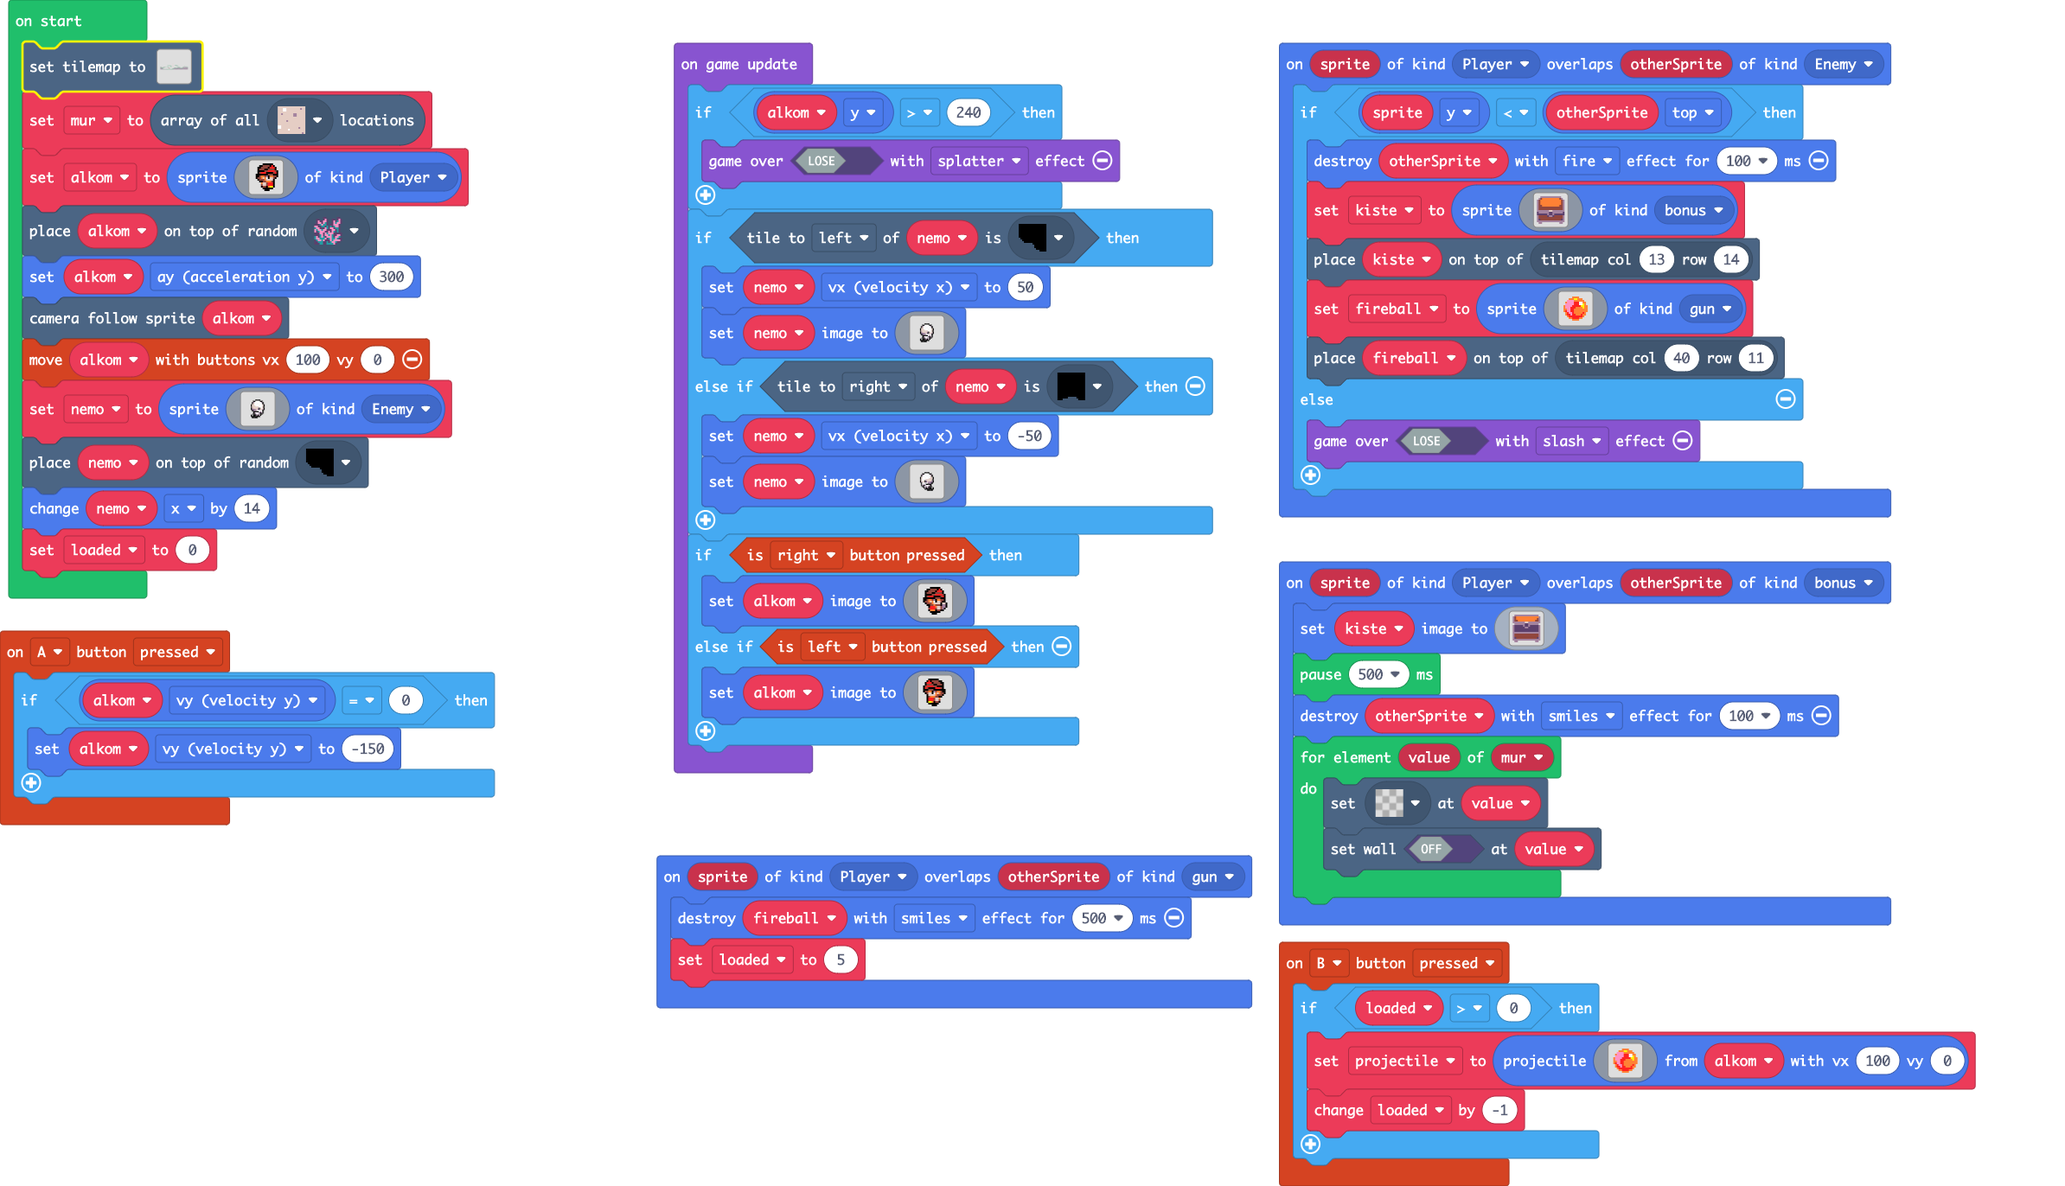
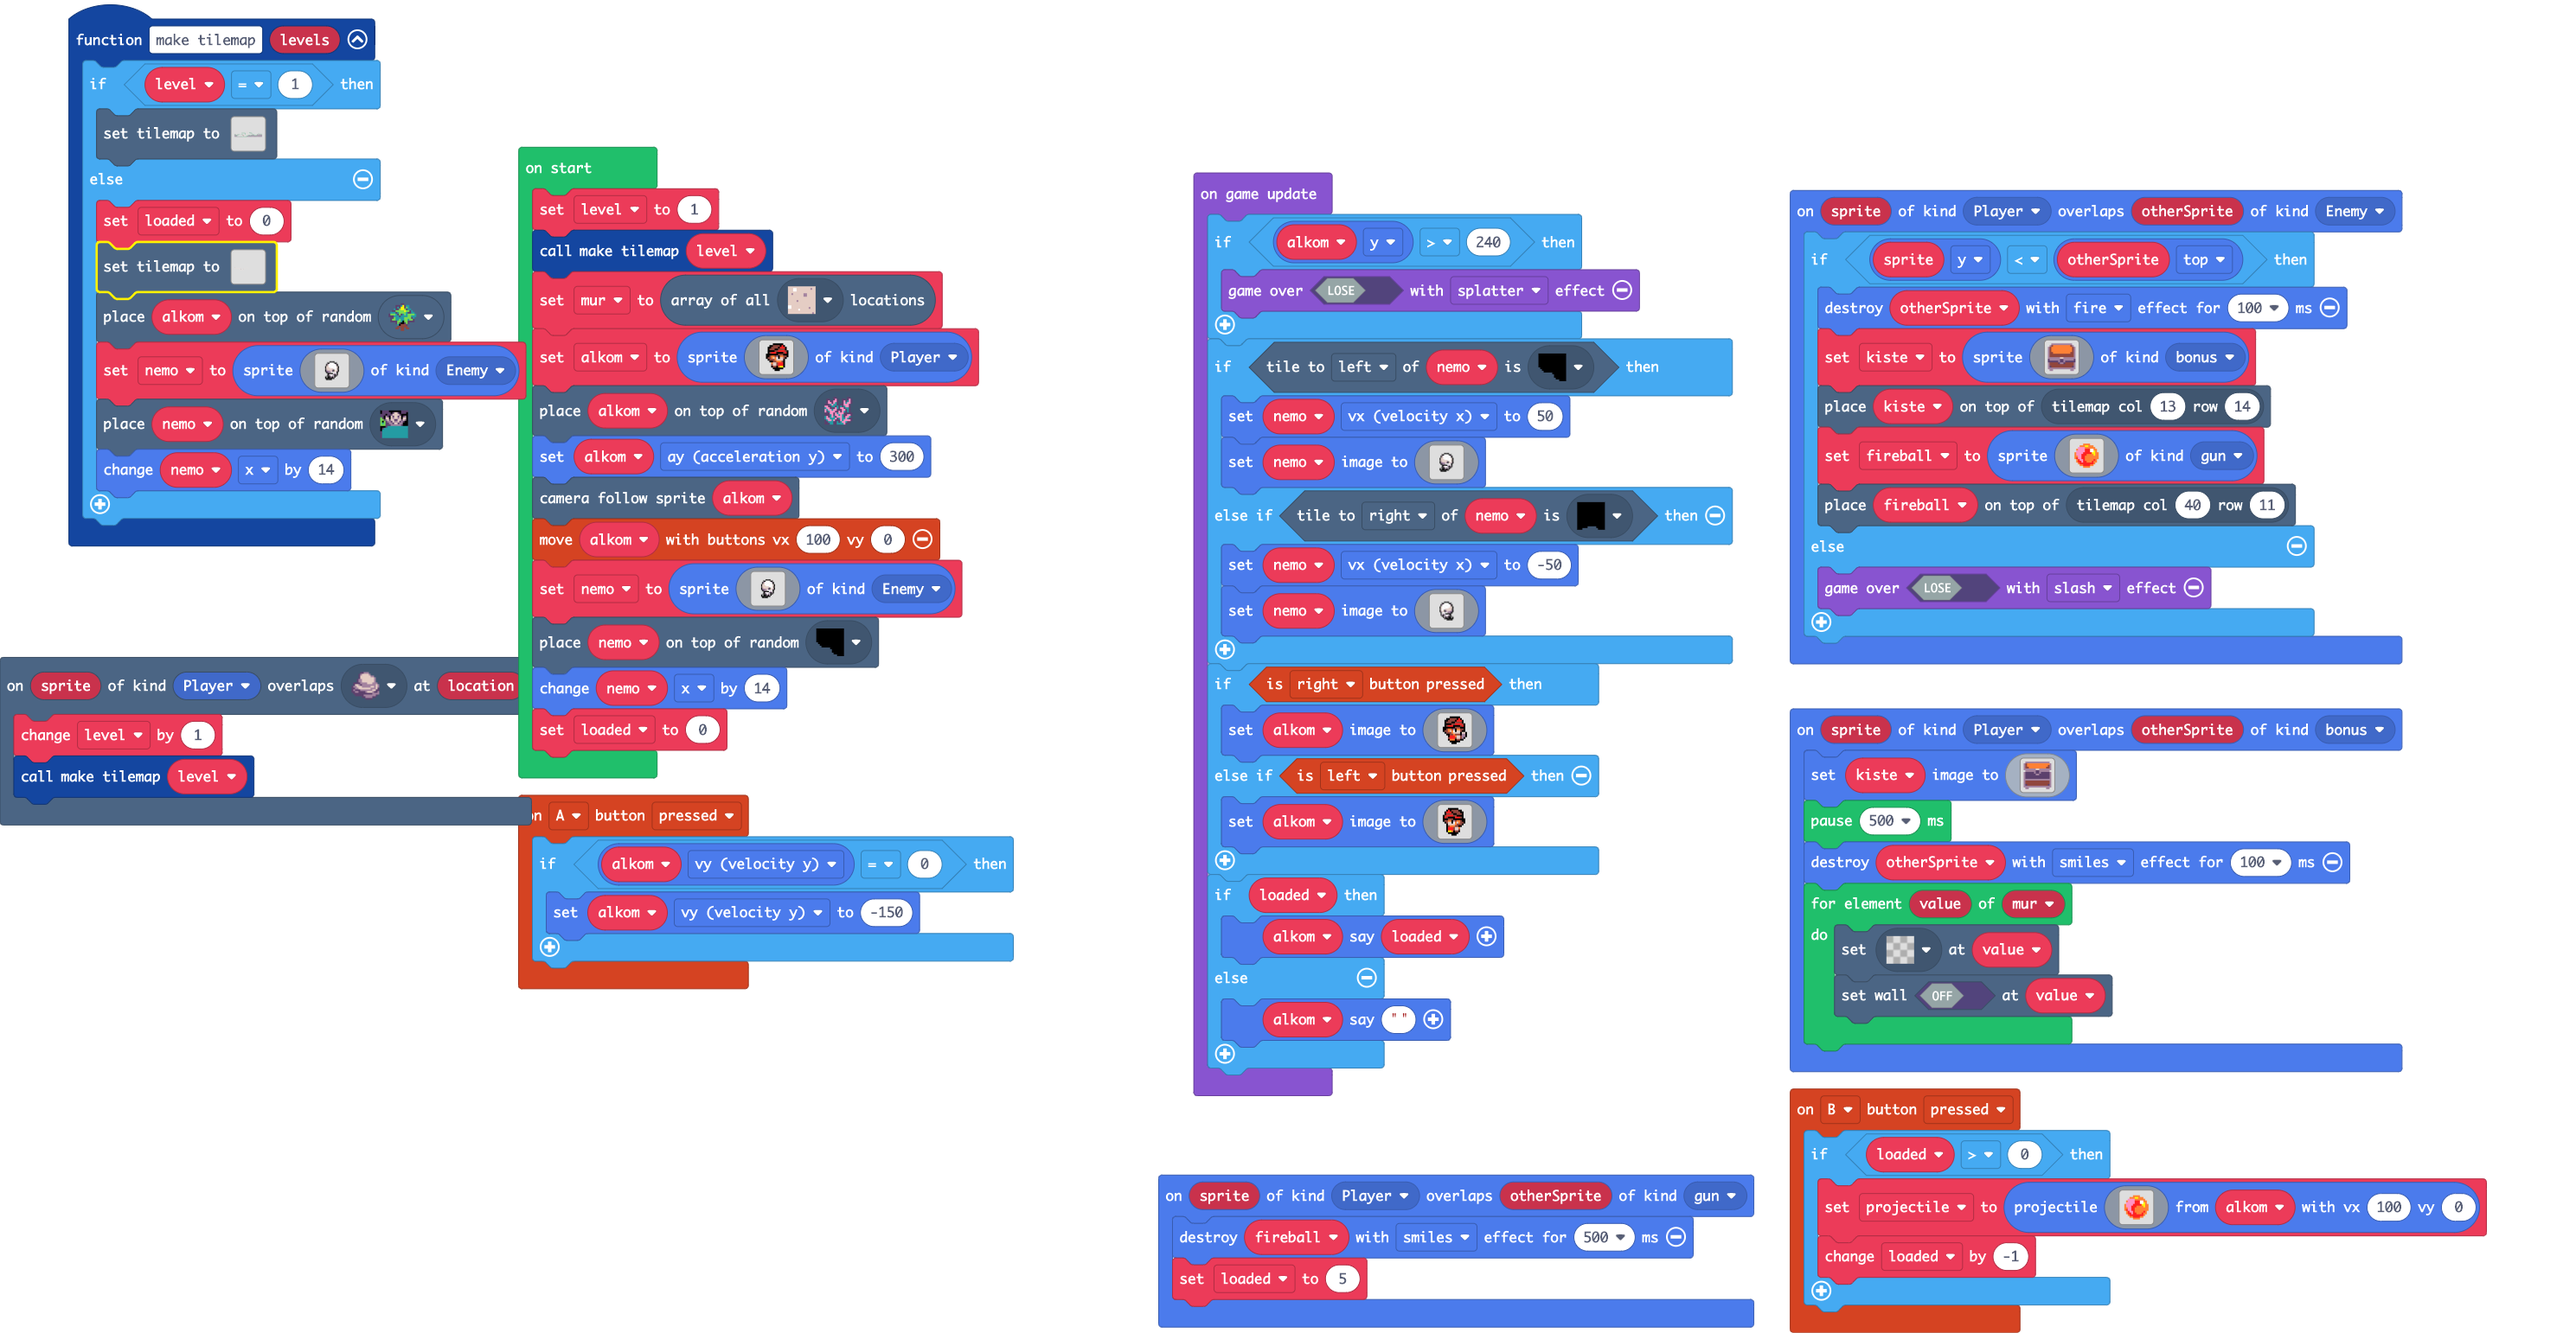
Update main.blocks, main.ts

diff --git a/main.ts b/main.ts
@@ -29,6 +29,77 @@ sprites.onOverlap(SpriteKind.Player, SpriteKind.gun, function (sprite, otherSpri
     fireball.destroy(effects.smiles, 500)
     loaded = 5
 })
+function make_tilemap (levels: number) {
+    if (level == 1) {
[1 lines of base64/hex data omitted]
+            ................................2.....................................
+            ................................2.....................................
+            ................................2.....................................
+            ................................2.....................................
+            ................................2.....................................
+            ................................2....222..............................
+            ..................222222222.....2......22222..........................
+            ..........................22....2..........22.................2.......
+            ...........................2....2...........................2.....2...
+            ...........................2....2.........................2.....2.....
+            22.......22222...2222......2....2...........222222.......2.........222
+            .222222222...........2..........2...222...222..2.2......2.............
+            .....................22.........2.222..2222......222222222............
+            ......................22........222...................................
+            ..............................222.....................................
+            ............222..22222222222222.......................................
+            `, [myTiles.transparency16,sprites.builtin.forestTiles0,sprites.builtin.oceanDepths8,sprites.builtin.oceanDepths9,sprites.castle.tilePath5,myTiles.tile2,sprites.castle.rock0,sprites.builtin.oceanDepths4,sprites.builtin.oceanDepths0,sprites.builtin.coral5,sprites.builtin.oceanDepths3], TileScale.Sixteen))
+    } else {
+        loaded = 0
+        tiles.setTilemap(tiles.createTilemap(hex`4600100000000000000000000000000000000000000000000000000000000000000000000000000000000000000000000000000000000000000000000000000000000000000000000000000000000000000000000000000000000000000000000000000000000000000000000000000000000000000000000000000000000000000000000000000000000000000000000000000000000000000000000000000000000000000000000000000000000000000000000000000000000000000000000000000000000000000000000000000000000000000000000000000000000000000000000000000000000000000000000000000000000000000000000000000000000000000000000000000000000000000000000000000000000000000000000000000000000000000000000000000000000000000000000000000000000000000000000000000000000000000000000000000000000000000000000000000000000000000000000000000000000000000000000000000000000000000000000000000000000000000000000000000000000000000000000000000000000000000000000000000000000000000000000000000000000000000000000000000000000000000000000000000000000000000000000000000000000000000000000000000000000000000000000000000000000000000000000000000000000000000000000000000000000000000000000000000000000000000000000000000000000000000000000000000000000000000000000000000000000000000000000000000000000000000000000000000000000000000000000000000000000000000000000000000000000000000000000000000000000000000002000000000000000000000000000000000000000000000000000000000000000000000000000000000000000000000000000000000000000000000000000000000000000000010101000000000000000000000000000000000000000000000000000000000101000000000000000000000000000000000000000000000000000000000000000000000000000001010101010101010000000001010100000000000000000001010001000000000000000000000000000000000000000000000000000000000000000000000000000000000000000000000000000101010101010001000000000000000100000000000000000000010100000000000000000000000000000000000000000000000000000000000000000000000000000000000000000000000000010000000000000001000000000000000000000000000000000000000000000000000000000000000000000000000000000000000000000000000000000000000000000000000103000000000004010000000000000000000000000000000000000000000000000000000000000000000000000000000000000000000000000000000000000000000000000001010101010101010100000000000000000000000000000000000000000000000000000000000000000000000000000000000000000000`, img`
+            ......................................................................
+            ......................................................................
+            ......................................................................
+            ......................................................................
+            ......................................................................
+            ......................................................................
+            ......................................................................
+            ......................................................................
+            ......................................................................
+            ......................................................................
+            222............................22.....................................
+            .22222222....222.........22.2.........................................
+            ........222222.2.......2..........22..................................
+            ...............2.......2..............................................
+            ...............2.......2..............................................
+            ...............2222222222.............................................
+            `, [myTiles.transparency16,sprites.builtin.brick,sprites.castle.saplingPine,sprites.builtin.crowd4,sprites.builtin.crowd1], TileScale.Sixteen))
+        tiles.placeOnRandomTile(alkom, sprites.castle.saplingPine)
+        nemo = sprites.create(img`
+            ........................
+            ........................
+            ........................
+            ........................
+            ..........ffff..........
+            ........ff1111ff........
+            .......fb111111bf.......
+            .......fd1111111f.......
+            ......fdd1111111df......
+            ......fddd111111df......
+            ......fdddddd111df......
+            ......fbddddbfd1df......
+            ......fcbbbdcfddbf......
+            .......fcbb11111f.......
+            ........fffff1b1f.......
+            ........fb111cfbf.......
+            ........ffb1b1ff........
+            ......f.fffbfbf.........
+            ......ffffffff..........
+            .......fffff............
+            ........................
+            ........................
+            ........................
+            ........................
+            `, SpriteKind.Enemy)
+        tiles.placeOnRandomTile(nemo, sprites.builtin.crowd4)
+        nemo.x += 14
+    }
+}
 sprites.onOverlap(SpriteKind.Player, SpriteKind.bonus, function (sprite, otherSprite) {
     kiste.setImage(img`
         . b b b b b b b b b b b b b b . 
@@ -59,6 +130,10 @@ controller.A.onEvent(ControllerButtonEvent.Pressed, function () {
     if (alkom.vy == 0) {
         alkom.vy = -150
     }
+})
+scene.onOverlapTile(SpriteKind.Player, sprites.castle.rock0, function (sprite, location) {
+    level += 1
+    make_tilemap(level)
 })
 sprites.onOverlap(SpriteKind.Player, SpriteKind.Enemy, function (sprite, otherSprite) {
     if (sprite.y < otherSprite.top) {
@@ -109,26 +184,12 @@ let kiste: Sprite = null
 let fireball: Sprite = null
 let projectile: Sprite = null
 let loaded = 0
+let nemo: Sprite = null
 let alkom: Sprite = null
 let mur: tiles.Location[] = []
[1 lines of base64/hex data omitted]
-    ................................2.....................................
-    ................................2.....................................
-    ................................2.....................................
-    ................................2.....................................
-    ................................2.....................................
-    ................................2....222..............................
-    ..................222222222.....2......22222..........................
-    ..........................22....2..........22.................2.......
-    ...........................2....2...........................2.....2...
-    ...........................2....2.........................2.....2.....
-    22.......22222...2222......2....2...........222222.......2.........222
-    .222222222...........2..........2...222...222..2.2......2.............
-    .....................22.........2.222..2222......222222222............
-    ......................22........222...................................
-    ..............................222.....................................
-    ............222..22222222222222.......................................
-    `, [myTiles.transparency16,sprites.builtin.forestTiles0,sprites.builtin.oceanDepths8,sprites.builtin.oceanDepths9,sprites.castle.tilePath5,myTiles.tile2,sprites.castle.rock0,sprites.builtin.oceanDepths4,sprites.builtin.oceanDepths0,sprites.builtin.coral5,sprites.builtin.oceanDepths3], TileScale.Sixteen))
+let level = 0
+level = 1
+make_tilemap(level)
 mur = tiles.getTilesByType(sprites.castle.tilePath5)
 alkom = sprites.create(img`
     . . . . . . f f f f f f . . . . 
@@ -152,7 +213,7 @@ tiles.placeOnRandomTile(alkom, sprites.builtin.coral5)
 alkom.ay = 300
 scene.cameraFollowSprite(alkom)
 controller.moveSprite(alkom, 100, 0)
-let nemo = sprites.create(img`
+nemo = sprites.create(img`
     ........................
     ........................
     ........................
@@ -280,5 +341,10 @@ game.onUpdate(function () {
             . . . . f f f f f f . . . . . . 
             . . . . . . f f f . . . . . . . 
             `)
+    }
+    if (loaded) {
+        alkom.say(loaded)
+    } else {
+        alkom.say("")
     }
 })
